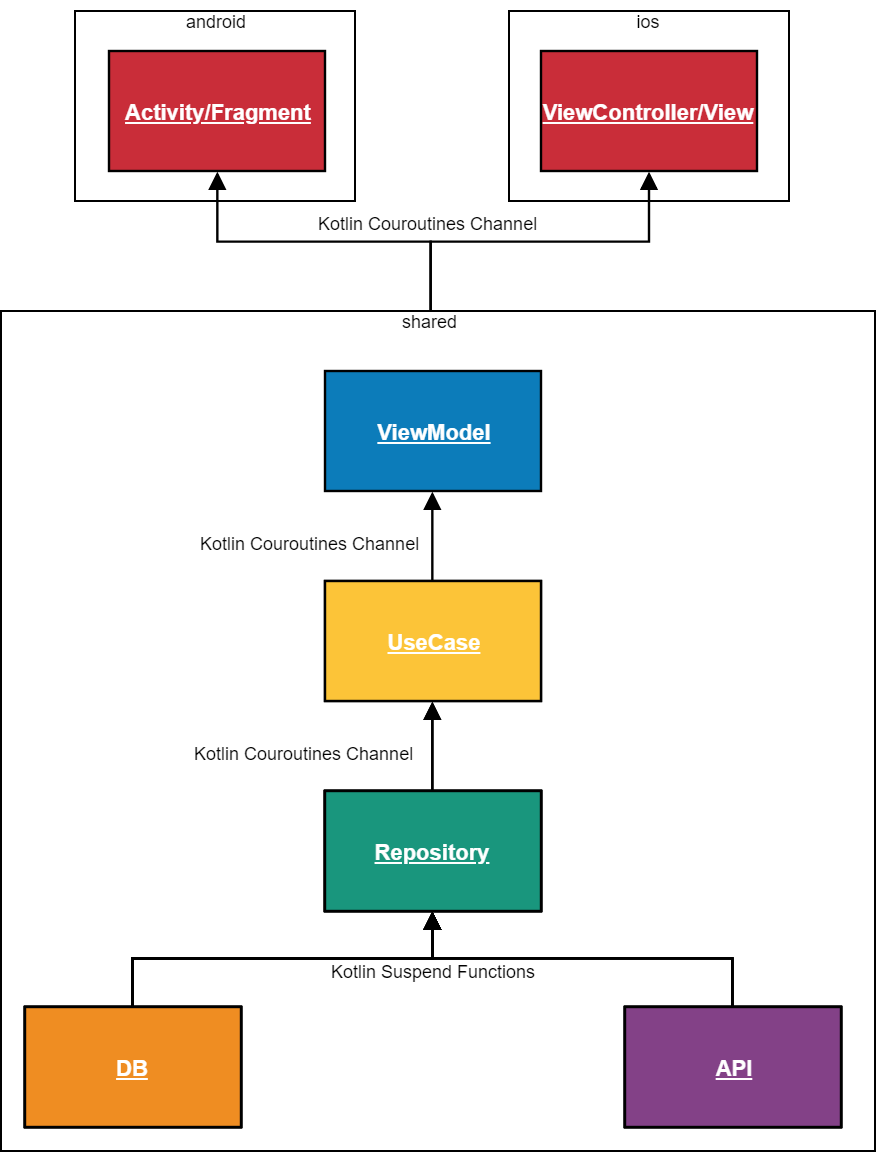
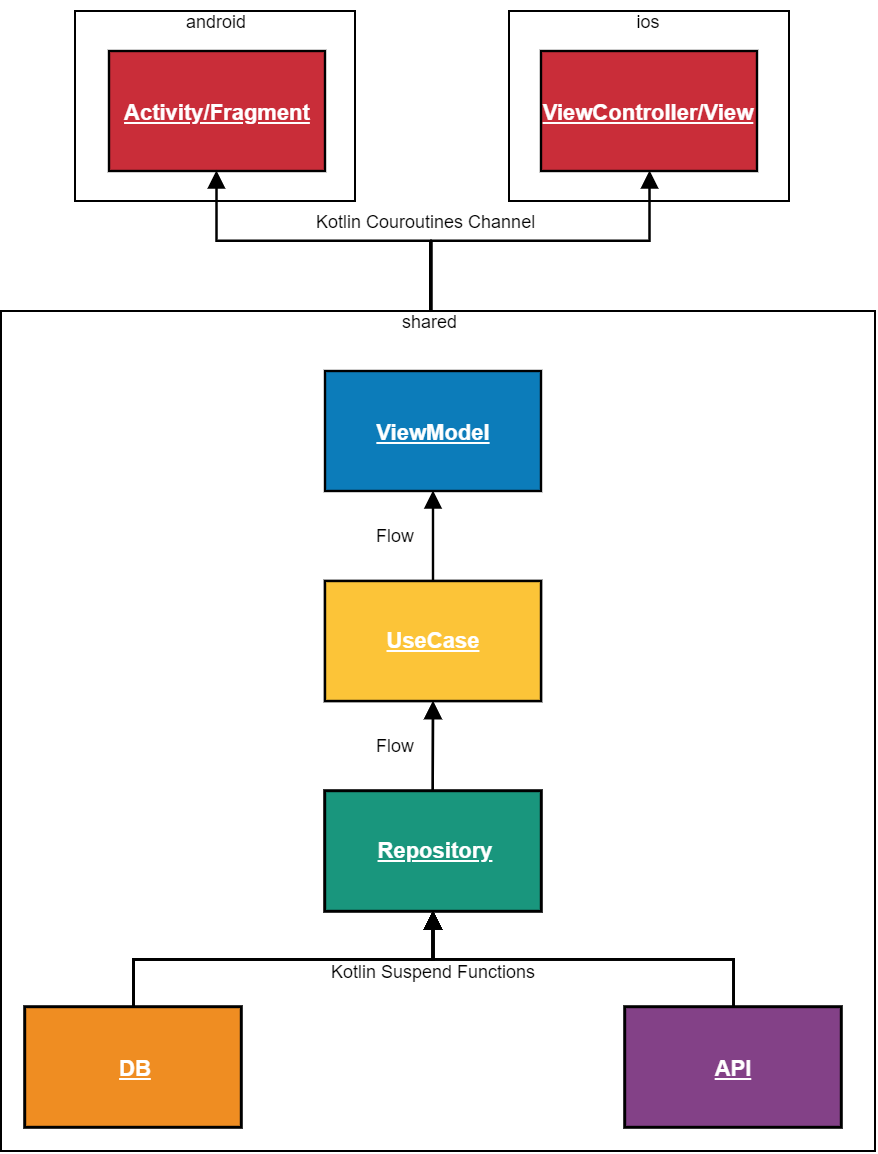
[skip travis] Improve ETS items layout (#214)
* Make ETS item bigger to make all titles fit

* Add bottom margin to titles

* Remove title from MonETS' logo

* Update arch diagram

* Fix recycler view's overscroll edge effect

There was a margin

* Display items as a list on smaller screen

Add layouts for screen with a width of < 360 dp

diff --git a/android/app/src/main/kotlin/ca/etsmtl/applets/etsmobile/presentation/ets/EtsViewModel.kt b/android/app/src/main/kotlin/ca/etsmtl/applets/etsmobile/presentation/ets/EtsViewModel.kt
@@ -22,7 +22,7 @@ class EtsViewModel @Inject constructor() : ViewModel() {
                 EtsItem(R.drawable.ic_security_white_24dp, R.string.title_security) {
                     _navigateToSecurity.value = Event(Unit)
                 },
-                EtsItem(R.drawable.ic_monets, null) {
+                EtsItem(R.drawable.ic_monets_sans_nom, R.string.title_monets) {
                     _navigateToUri.value = Event(R.string.uri_mon_ets)
                 },
                 EtsItem(R.drawable.ic_book_white_24dp, R.string.title_bibliotech) {
